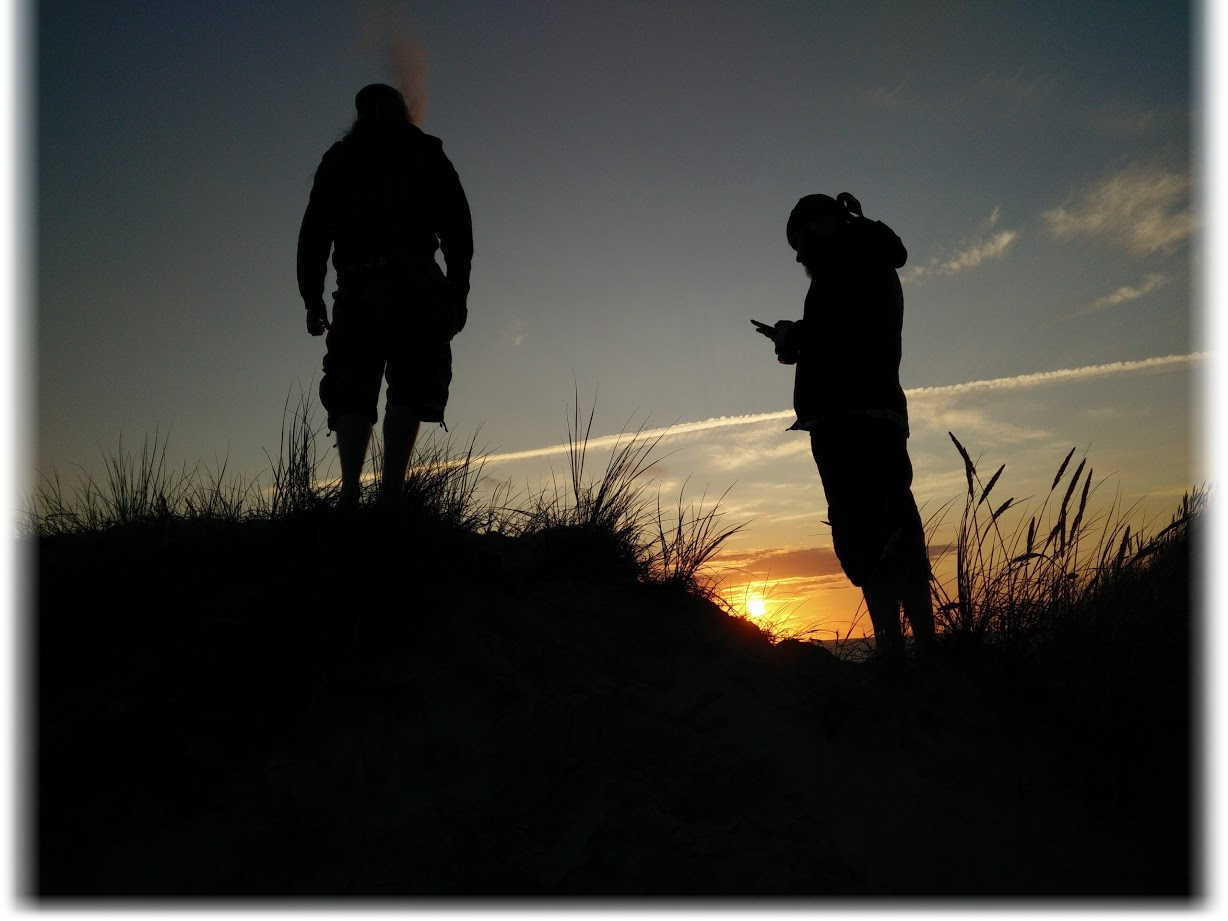
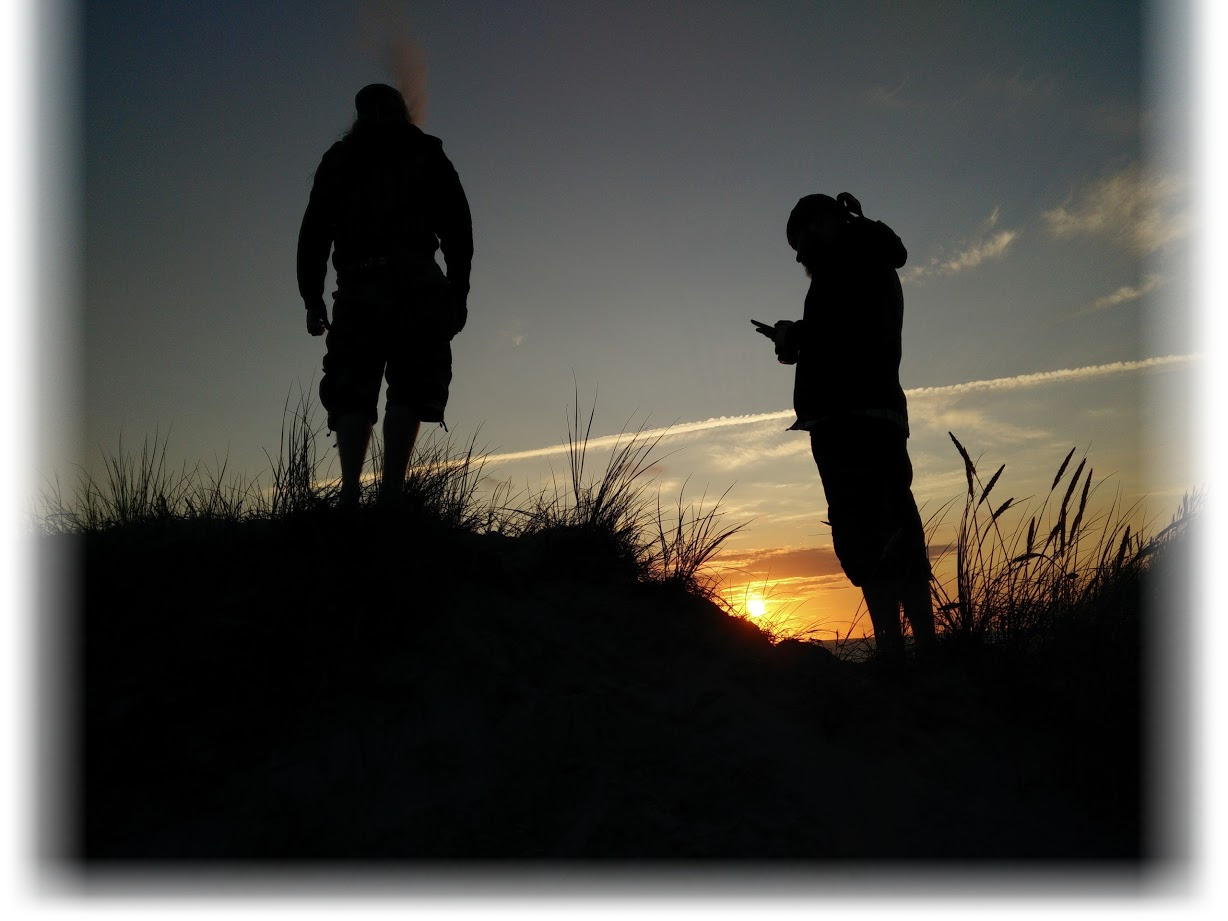
Adds more transparency to the background and smaller card margin on mobile devices

Changed region(s): [[0.0, 0.0, 0.9902, 1.0]]

diff --git a/css/frontpage.css b/css/frontpage.css
@@ -40,3 +40,9 @@ body {
 .with-border {
     border: 5px solid red;
 }
+
+@media (max-width: 500px) {
+    .face-card {
+        margin: 10px;
+    }
+}
